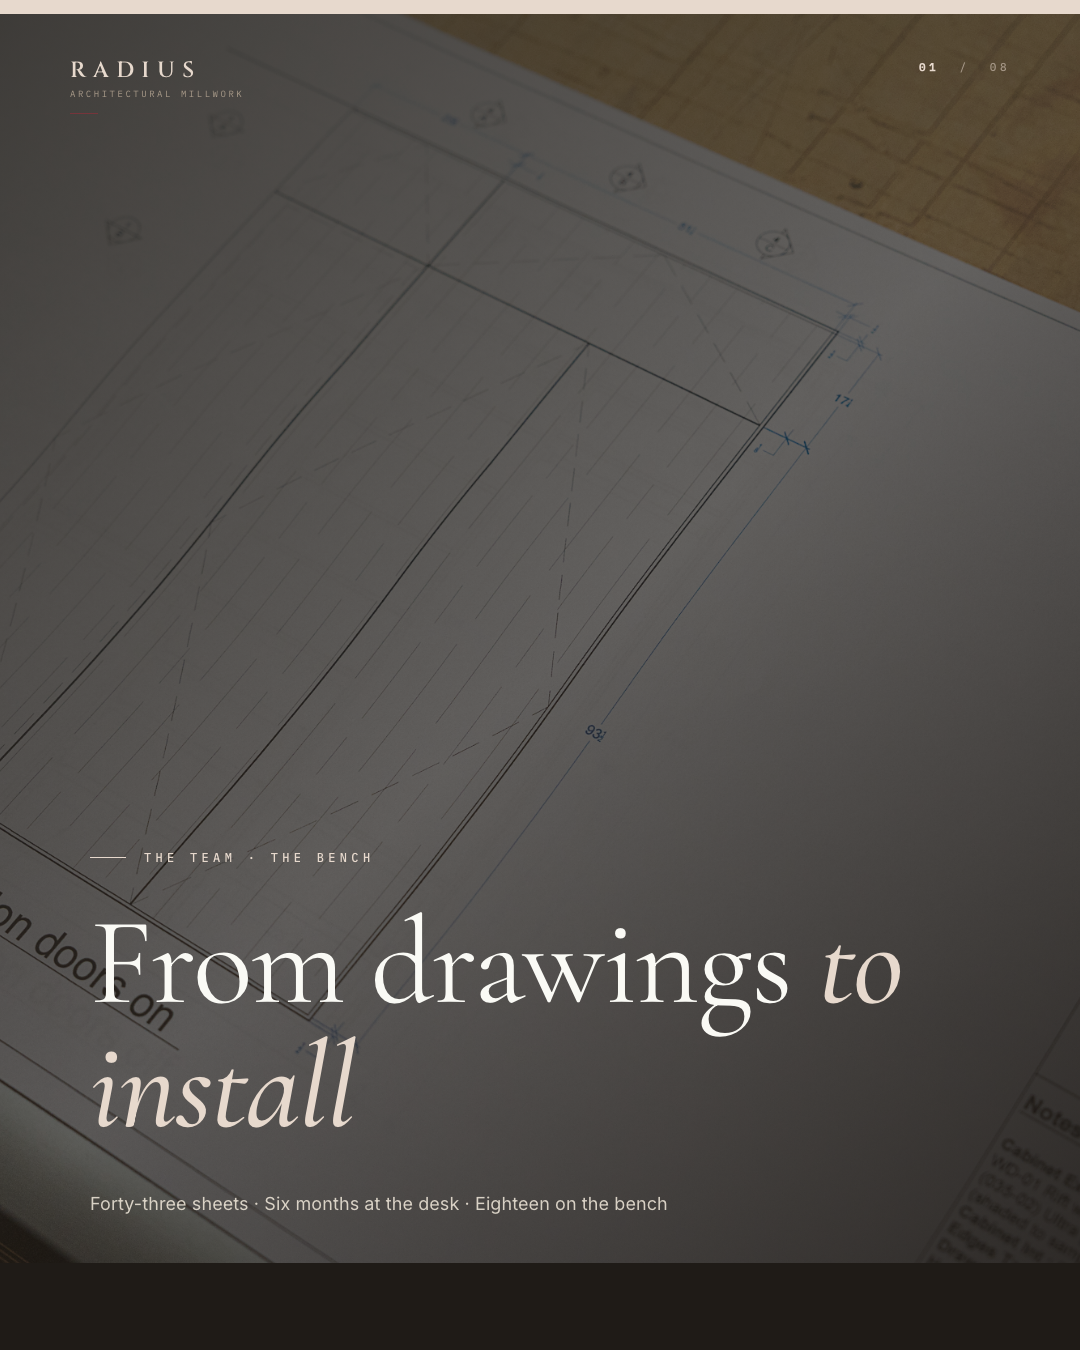
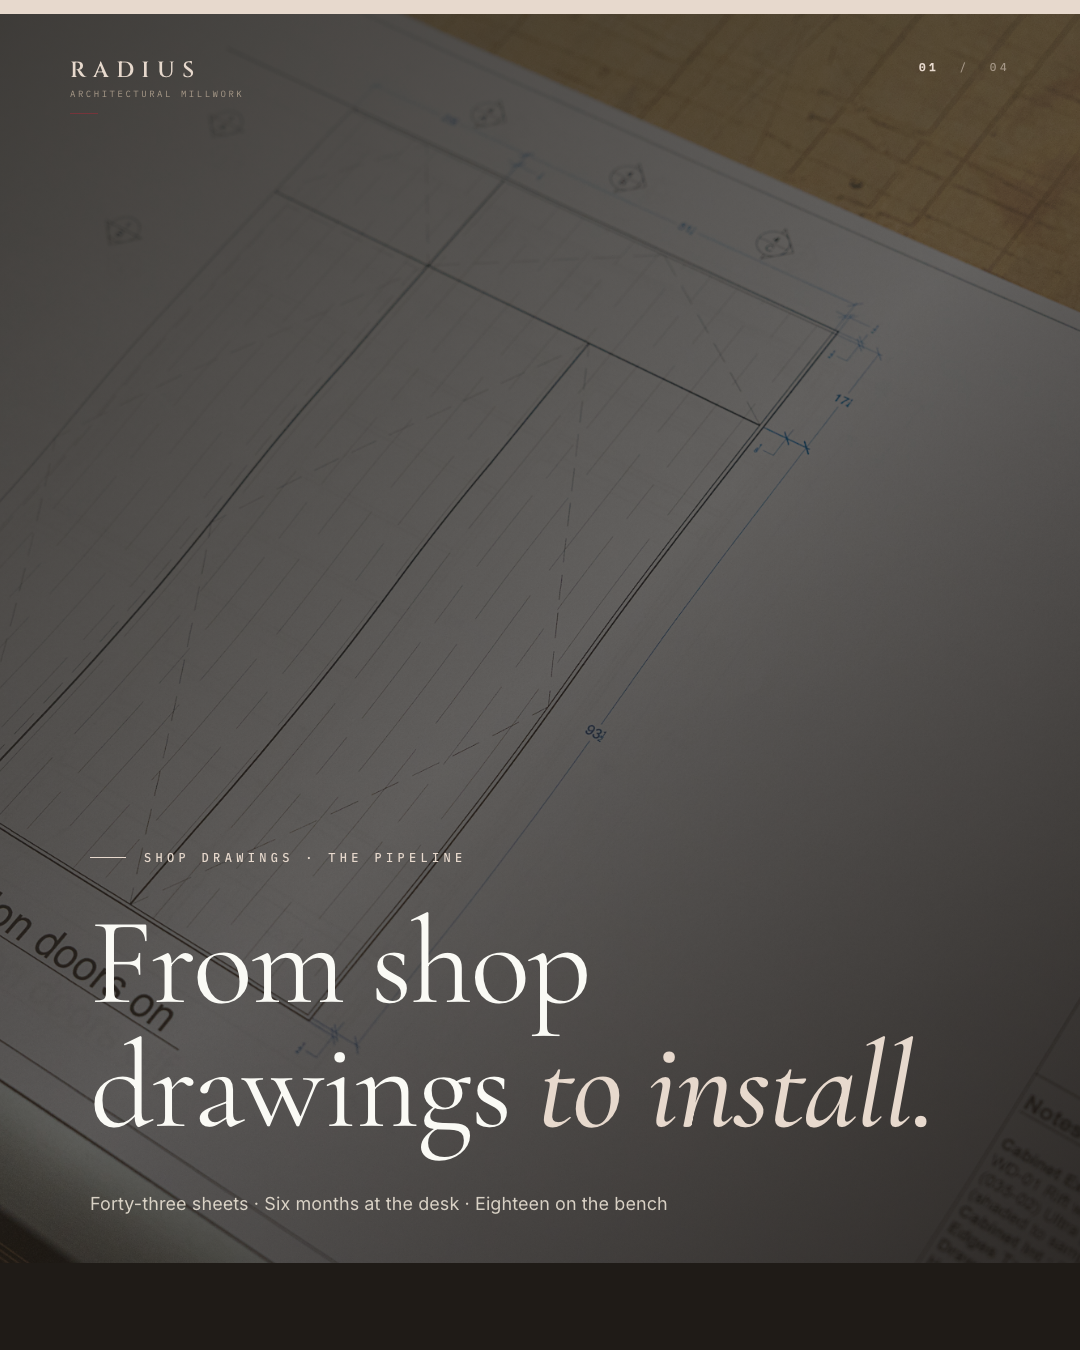
More cuts: drawings-to-install Sheldon-free + delete AWMAC + Sheldon spotlight + Variant 02
DRAWINGS-TO-INSTALL POST (now Post 07 / 08):
- Removed: primary-ensuite.jpg drawing, panel-callout-bed2-cab5-wide.jpg,
  p9_s7_quote (Sheldon quote), p9_s8_pipeline (six-steps)
- Carousel: 8 slides → 4 slides
- Caption rewritten without naming Sheldon — anchored on the workflow
  itself (forty-three sheets, drawing-to-saw-to-install, internal handoff)
- Cover slide eyebrow: 'The Team · The Bench' → 'Shop Drawings · The Pipeline'
- Pillar badge: The Team → The Craft
- Hashtags: removed #theteam, #thedrawingdesk

DELETED POSTS:
- Post 09 / 10 (Wk 3) 'Looking back at AWMAC Gold' LinkedIn long-form
- Post 10 / 10 (Wk 3) 'Sheldon · eighteen years' carousel

DELETED VARIANT:
- Variant 02 'What twenty hours per drawer buys you' (cost transparency)
- Other variants renumbered: 03-08 → 02-07. Section sub: 'Eight posts'
  → 'Seven posts, seven angles'

May calendar now: 8 total posts (6 Wk1+2 + 2 Wk3).
Week 3: Mon · Wed only (Fri/Sat removed).
Top metadata: 10 → 8 posts.

Changed region(s): [[0.0917, 0.6533, 0.8556, 0.8711]]

diff --git a/radiuswood/posts/index.html b/radiuswood/posts/index.html
@@ -130,7 +130,7 @@
   <div class="meta-row">
     <div class="meta-item"><strong>Source Shoot</strong>May 5, 2026</div>
     <div class="meta-item"><strong>Edited Frames</strong>55 delivered</div>
-    <div class="meta-item"><strong>Posts</strong>10 (full month · founder-reset + service-diff removed)</div>
+    <div class="meta-item"><strong>Posts</strong>8 (full month · 4 LinkedIn/Sheldon posts removed)</div>
     <div class="meta-item"><strong>Designed Slides</strong>54 (4:5 carousels) + 10 stories (9:16)</div>
     <div class="meta-item"><strong>Plan Drawings</strong>5 in feed (Posts 1, 2, 9, 12)</div>
     <div class="meta-item"><strong>Stories</strong>10 vertical (1080×1920)</div>
@@ -155,7 +155,7 @@
   <!-- POST 1 -->
   <article class="post">
     <div class="post-head">
-      <span class="post-num">Post 01 / 06</span>
+      <span class="post-num">Post 01 / 08</span>
       <span class="post-when">Mon · <em>May 11</em></span>
     </div>
     <div class="post-meta">
@@ -197,7 +197,7 @@ Photography @mattanthonyphoto</div>
   <!-- POST 2 -->
   <article class="post">
     <div class="post-head">
-      <span class="post-num">Post 02 / 06</span>
+      <span class="post-num">Post 02 / 08</span>
       <span class="post-when">Wed · <em>May 13</em></span>
     </div>
     <div class="post-meta">
@@ -244,7 +244,7 @@ Photography @mattanthonyphoto</div>
   <!-- POST 3 (was POST 4 before deletion of founder reset) -->
   <article class="post">
     <div class="post-head">
-      <span class="post-num">Post 03 / 06</span>
+      <span class="post-num">Post 03 / 08</span>
       <span class="post-when">Sat · <em>May 17</em></span>
     </div>
     <div class="post-meta">
@@ -299,7 +299,7 @@ Rick Wilson, Owner + Master Joiner. Photography @mattanthonyphoto</div>
   <!-- POST 5 -->
   <article class="post">
     <div class="post-head">
-      <span class="post-num">Post 04 / 06</span>
+      <span class="post-num">Post 04 / 08</span>
       <span class="post-when">Mon · <em>May 18</em></span>
     </div>
     <div class="post-meta">
@@ -344,7 +344,7 @@ Photography @mattanthonyphoto</div>
   <!-- POST 6 -->
   <article class="post">
     <div class="post-head">
-      <span class="post-num">Post 05 / 06</span>
+      <span class="post-num">Post 05 / 08</span>
       <span class="post-when">Wed · <em>May 20</em></span>
     </div>
     <div class="post-meta">
@@ -391,7 +391,7 @@ Photography @mattanthonyphoto</div>
   <!-- POST 8 -->
   <article class="post">
     <div class="post-head">
-      <span class="post-num">Post 06 / 06</span>
+      <span class="post-num">Post 06 / 08</span>
       <span class="post-when">Sat · <em>May 24</em></span>
     </div>
     <div class="post-meta">
@@ -435,7 +435,7 @@ Photography @mattanthonyphoto</div>
 <!-- WEEK 3 -->
 <section class="week">
   <div class="week-label">Week <em>Three</em></div>
-  <div class="week-sub">May 25–31 · Mon Wed Fri Sat</div>
+  <div class="week-sub">May 25–31 · Mon · Wed (AWMAC + Sheldon-spotlight removed)</div>
 </section>
 
 <section class="posts">
@@ -443,49 +443,45 @@ Photography @mattanthonyphoto</div>
   <!-- POST 9 -->
   <article class="post">
     <div class="post-head">
-      <span class="post-num">Post 07 / 10 (Wk 3)</span>
+      <span class="post-num">Post 07 / 08 (Wk 3)</span>
       <span class="post-when">Mon · <em>May 25</em></span>
     </div>
     <div class="post-meta">
       <span class="badge platform">Instagram</span>
-      <span class="badge type">Carousel · 8 slides</span>
-      <span class="badge pillar">The Team</span>
+      <span class="badge type">Carousel · 4 slides</span>
+      <span class="badge pillar">The Craft</span>
     </div>
-    <h3>From drawings <em>to install.</em></h3>
+    <h3>From shop drawings <em>to install.</em></h3>
 
     <div class="carousel-wrap">
-      <div class="carousel-label">Carousel sequence — drawings → marker → execution → process</div>
+      <div class="carousel-label">Carousel sequence — the drawing-to-install pipeline (no team focus, no Sheldon)</div>
       <div class="carousel">
         <div class="slide-wrap"><span class="slide-num">01</span><span class="slide-tag">Cover</span><img class="designed" src="slides/p9_s1_cover.png" alt="cover"></div>
-        <div class="slide-wrap horizontal"><span class="slide-num">02</span><span class="slide-tag">Drawing</span><img src="photos/drawings/ogr-shop-drawing-primary-ensuite.jpg" alt="OGR plan"></div>
-        <div class="slide-wrap horizontal"><span class="slide-num">03</span><span class="slide-tag">Drawing</span><img src="photos/drawings/ogr-shop-drawing-elevation-doors-on.jpg" alt="OGR elevation"></div>
-        <div class="slide-wrap"><span class="slide-num">04</span><span class="slide-tag">Marker</span><img src="photos/drawings/panel-marking-rift-oak-b1.jpg" alt="B1 panel"></div>
-        <div class="slide-wrap horizontal"><span class="slide-num">05</span><span class="slide-tag">Marker</span><img src="photos/drawings/panel-callout-bed2-cab5-wide.jpg" alt="panel back markings"></div>
-        <div class="slide-wrap horizontal"><span class="slide-num">06</span><span class="slide-tag">Production</span><img src="photos/process/ogr-wardrobe-carcass-pre-fit.jpg" alt="cabinet runs"></div>
-        <div class="slide-wrap"><span class="slide-num">07</span><span class="slide-tag">Quote</span><img class="designed" src="slides/p9_s7_quote.png" alt="Sheldon quote"></div>
-        <div class="slide-wrap"><span class="slide-num">08</span><span class="slide-tag">Process</span><img class="designed" src="slides/p9_s8_pipeline.png" alt="six steps"></div>
+        <div class="slide-wrap horizontal"><span class="slide-num">02</span><span class="slide-tag">Drawing</span><img src="photos/drawings/ogr-shop-drawing-elevation-doors-on.jpg" alt="OGR elevation"></div>
+        <div class="slide-wrap"><span class="slide-num">03</span><span class="slide-tag">Marker</span><img src="photos/drawings/panel-marking-rift-oak-b1.jpg" alt="B1 panel"></div>
+        <div class="slide-wrap horizontal"><span class="slide-num">04</span><span class="slide-tag">Production</span><img src="photos/process/ogr-wardrobe-carcass-pre-fit.jpg" alt="cabinet runs"></div>
       </div>
     </div>
 
     <div class="post-grid">
       <div>
-        <div class="caption-label">Caption (Rick first-person)</div>
-        <div class="caption">Eighteen years at the drawing desk.
+        <div class="caption-label">Caption (Rick first-person · no team focus)</div>
+        <div class="caption">From shop drawings to install.
 
-Sheldon runs our shop drawings. Every panel, every reveal, every section detail goes through him before it gets cut. Old Gravel Road, Whistler. Forty-three sheets. Six months at the desk. Eighteen months on the bench.
+Forty-three sheets for one Whistler residence. Six months at the drawing desk. Eighteen months on the bench. Every panel, every reveal, every section detail gets drawn before it gets cut.
 
-The drawings travel from his desk to the saw. The marker on the panel face is a callback to the elevation he drew six months ago.
+The marker on the panel face is a callback to the elevation drawn six months ago. The set that came in from the architect goes out as installed millwork — every callout traced, every dimension held.
 
-We've been at the desk next to each other for eighteen years. Same wavelength. When I'm stuck I ask him. When he's stuck he asks me.
+Drawings travel from desk to saw to install crew. Same shop. The handoff is internal.
 
-That's the unfair advantage of building a shop slowly.
+That's what "in-house" actually means.
 
-Rick Wilson, Owner + Master Joiner. Photography @mattanthonyphoto.</div>
-        <div class="voice-check"><strong>Voice gate:</strong> Names Sheldon (3x) and Old Gravel Road, Whistler. Both pending Rick's go-ahead per unblock email. If Sheldon prefers anonymity, replace with "Our lead designer" and reduce mentions to 1.</div>
+Rick Wilson, Owner + Master Joiner. Photography @mattanthonyphoto</div>
+        <div class="voice-check"><strong>Direction kept · Sheldon removed.</strong> Caption now anchors on the workflow itself: forty-three sheets, drawing-to-saw-to-install, handoff internal. No team naming. Architect/GC-targeted.</div>
       </div>
       <div>
         <div class="caption-label">Hashtags</div>
-        <div class="hashtags">#shopdrawings #archmillwork #thebench #thedrawingdesk #vancouverarchitect #residentialarchitecture #vancouvermillwork #fromdrawingstoinstall #thecraft #theteam</div>
+        <div class="hashtags">#shopdrawings #archmillwork #thebench #vancouverarchitect #residentialarchitecture #vancouvermillwork #fromdrawingstoinstall #inhouseworkflow #thecraft</div>
       </div>
     </div>
   </article>
@@ -495,7 +491,7 @@ Rick Wilson, Owner + Master Joiner. Photography @mattanthonyphoto.</div>
   <!-- POST 10 -->
   <article class="post">
     <div class="post-head">
-      <span class="post-num">Post 08 / 10 (Wk 3)</span>
+      <span class="post-num">Post 08 / 08 (Wk 3)</span>
       <span class="post-when">Wed · <em>May 27</em></span>
     </div>
     <div class="post-meta">
@@ -539,95 +535,7 @@ Photography @mattanthonyphoto</div>
     </div>
   </article>
 
-  <!-- POST 11 -->
-  <article class="post">
-    <div class="post-head">
-      <span class="post-num">Post 09 / 10 (Wk 3)</span>
-      <span class="post-when">Fri · <em>May 29</em></span>
-    </div>
-    <div class="post-meta">
-      <span class="badge platform">LinkedIn</span>
-      <span class="badge type">Long-form · 2 photos</span>
-      <span class="badge pillar">The Finished</span>
-    </div>
-    <h3>Looking back at <em>AWMAC Gold.</em></h3>
-
-    <div class="carousel-wrap">
-      <div class="carousel-label">Photos</div>
-      <div class="carousel">
-        <div class="slide-wrap"><span class="slide-num">01</span><span class="slide-tag">Award</span><img class="designed" src="slides/lib_a_awmacgold.png" alt="AWMAC Gold"></div>
-        <div class="slide-wrap"><span class="slide-num">02</span><span class="slide-tag">Process</span><img class="designed" src="slides/lib_proc_springback.png" alt="spring-back"></div>
-      </div>
-    </div>
-
-    <div class="post-grid">
-      <div>
-        <div class="caption-label">Caption (Rick first-person)</div>
-        <div class="caption">Fifteen years ago, we won AWMAC BC Gold for two categories on the same project.
-
-Best in Quality. Best in Service. The Rosebery Estate, Vancouver. A residence by Lamoureux Architects with $1.5 million in custom millwork. Eighteen months on the bench. Fifteen craftspeople, full-time.
-
-The technical challenge was laminated curves. Bent-lamination of structural millwork radii — a process where layers of veneer get glued over a curved form, then released. The curve doesn't always hold the shape. We tested. We measured. We logged the spring-back coefficient per species and humidity. Eventually we had it down to a science.
-
-We're documenting our 2026 work for the AWMAC 2027 submission. Old Gravel Road, Whistler. Forty-three sheets at the drawing desk so far.
-
-Looking forward to walking that bench in front of the judges again.
-
-Rick Wilson, Owner + Master Joiner. Photography @mattanthonyphoto</div>
-      </div>
-      <div>
-        <div class="caption-label">Notes</div>
-        <div class="hashtags">LinkedIn long-form. Announces AWMAC 2027 target. References Lamoureux and Old Gravel Road by name — both gated for Rick consent.</div>
-      </div>
-    </div>
-  </article>
-
-  <!-- POST 12 -->
-  <article class="post">
-    <div class="post-head">
-      <span class="post-num">Post 10 / 10 (Wk 3)</span>
-      <span class="post-when">Sat · <em>May 31</em></span>
-    </div>
-    <div class="post-meta">
-      <span class="badge platform">Instagram</span>
-      <span class="badge type">Carousel · 5 slides</span>
-      <span class="badge pillar">The Team</span>
-    </div>
-    <h3>Sheldon · <em>eighteen years.</em></h3>
-
-    <div class="carousel-wrap">
-      <div class="carousel-label">Carousel sequence — Sheldon spotlight</div>
-      <div class="carousel">
-        <div class="slide-wrap"><span class="slide-num">01</span><span class="slide-tag">Cover</span><img class="designed" src="slides/p12_s1_cover.png" alt="cover"></div>
-        <div class="slide-wrap horizontal"><span class="slide-num">02</span><span class="slide-tag">Drawing</span><img src="photos/drawings/ogr-shop-drawing-primary-ensuite.jpg" alt="OGR plan"></div>
-        <div class="slide-wrap horizontal"><span class="slide-num">03</span><span class="slide-tag">Drawing</span><img src="photos/drawings/ogr-shop-drawing-elevation-doors-on.jpg" alt="OGR elevation"></div>
-        <div class="slide-wrap"><span class="slide-num">04</span><span class="slide-tag">Portrait</span><img class="designed" src="slides/lib_t_sheldon.png" alt="Sheldon"></div>
-        <div class="slide-wrap"><span class="slide-num">05</span><span class="slide-tag">Quote</span><img class="designed" src="slides/p9_s7_quote.png" alt="quote"></div>
-      </div>
-    </div>
-
-    <div class="post-grid">
-      <div>
-        <div class="caption-label">Caption</div>
-        <div class="caption">Sheldon walked in twenty-three years old. Portfolio of clean SketchUp renders. A hand for elevations. Stubborn streak about millimetre accuracy.
-
-I hired him on the spot.
-
-Eighteen years later he runs the drawing desk. Every panel, every reveal, every section detail goes through him before it hits the saw. Same wavelength, eighteen years in. When I'm stuck, I ask him. When he's stuck, he asks me.
-
-The Old Gravel Road set lands at his desk in February. Forty-three sheets. By March the saws are cutting his callouts. Architects look at our drawings — pencils land on his name.
-
-That's what building a shop slowly buys you. People who stay.
-
-Rick Wilson, Owner + Master Joiner. Photography @mattanthonyphoto</div>
-        <div class="voice-check"><strong>Voice gate:</strong> Names Sheldon by first name 3x + tenure-since-2008 implied via "eighteen years". Same gate as P3 + P9. Differentiates from P9 by leading with hire story instead of process arc.</div>
-      </div>
-      <div>
-        <div class="caption-label">Hashtags</div>
-        <div class="hashtags">#theteam #shopdrawings #thebench #archmillwork #vancouverarchitect #residentialarchitecture #vancouvermillwork #fromdrawingstoinstall #thecraft</div>
-      </div>
-    </div>
-  </article>
+  <!-- POSTS 09 (AWMAC Gold retrospective) and 10 (Sheldon spotlight) REMOVED by Rick -->
 
 </section>
 
@@ -637,7 +545,7 @@ Rick Wilson, Owner + Master Joiner. Photography @mattanthonyphoto</div>
 
 <section class="week" id="variants">
   <div class="week-label">Variants <em>· Other angles</em></div>
-  <div class="week-sub">Rick's voice applied to marketing angles we haven't tried in the May calendar. Eight posts, eight angles — anti-marketing, cost transparency, hot takes, myth-busting, apprentice voice, heritage stance, practical pre-spec, locality.</div>
+  <div class="week-sub">Rick's voice applied to marketing angles we haven't tried in the May calendar. Seven posts, seven angles — hot takes, myth-busting, apprentice voice, heritage stance, practical pre-spec, locality, anti-marketing.</div>
 </section>
 
 <section class="posts">
@@ -685,53 +593,12 @@ Rick Wilson, Owner + Master Joiner. Photography @mattanthonyphoto</div>
     </div>
   </article>
 
-  <!-- VARIANT 2 — Cost of a drawer (cost transparency) -->
+  <!-- VARIANT 02 (cost transparency) REMOVED by Rick -->
+
+  <!-- VARIANT 2 — Everyone wants to skip the bench (hot take) -->
   <article class="post">
     <div class="post-head">
-      <span class="post-num">Variant 02 · <em>cost transparency</em></span>
-      <span class="post-when">Standalone</span>
-    </div>
-    <div class="post-meta">
-      <span class="badge platform">LinkedIn</span>
-      <span class="badge type">Long-form · 3 photos + 1 number</span>
-      <span class="badge pillar">The Craft</span>
-    </div>
-    <h3>What twenty hours <em>per drawer</em> buys you.</h3>
-
-    <div class="carousel-wrap">
-      <div class="carousel-label">Demystify pricing — for architects + homeowners (via designers)</div>
-      <div class="carousel">
-        <div class="slide-wrap"><span class="slide-num">01</span><img src="photos/joinery/dovetail-pin-tail-maple-close.jpg" alt="dovetail close"></div>
-        <div class="slide-wrap"><span class="slide-num">02</span><span class="slide-tag">Number</span><img class="designed" src="slides/lib_n_20hrs.png" alt="20 hours"></div>
-        <div class="slide-wrap"><span class="slide-num">03</span><img src="photos/archive/luxury-22.jpg" alt="walnut display"></div>
-      </div>
-    </div>
-
-    <div class="post-grid">
-      <div>
-        <div class="caption-label">Caption (Rick first-person)</div>
-        <div class="caption">What twenty hours per drawer buys you.
-
-A custom dovetail drawer in solid Eastern maple is roughly twenty hours of bench time. Material is the cheap part — about thirty dollars in wood. The rest is setup, jig-cutting, the dovetail itself, fit, sanding, finish.
-
-A drawer-front from a kitchen-cabinet wholesaler is two dollars in material and forty seconds at the assembly line. Both hold pots. Only one holds for a hundred years.
-
-You're not paying for wood. You're paying for hours that won't come back.
-
-Rick Wilson, Owner + Master Joiner. Photography @mattanthonyphoto</div>
-        <div class="voice-check"><strong>Angle:</strong> Cost transparency. Educates the chain (architect → homeowner). Useful for the "why does it cost that much" conversation.</div>
-      </div>
-      <div>
-        <div class="caption-label">Notes</div>
-        <div class="hashtags">LinkedIn long-form. No hashtags. Targets architects who need to defend a custom-millwork line item to their client.</div>
-      </div>
-    </div>
-  </article>
-
-  <!-- VARIANT 3 — Everyone wants to skip the bench (hot take) -->
-  <article class="post">
-    <div class="post-head">
-      <span class="post-num">Variant 03 · <em>hot take</em></span>
+      <span class="post-num">Variant 02 · <em>hot take</em></span>
       <span class="post-when">Standalone</span>
     </div>
     <div class="post-meta">
@@ -770,10 +637,10 @@ Rick Wilson, Owner + Master Joiner. Photography @mattanthonyphoto</div>
     </div>
   </article>
 
-  <!-- VARIANT 4 — Two days CNC, two hours band saw (myth-busting) -->
+  <!-- VARIANT 3 — Two days CNC, two hours band saw (myth-busting) -->
   <article class="post">
     <div class="post-head">
-      <span class="post-num">Variant 04 · <em>myth-busting</em></span>
+      <span class="post-num">Variant 03 · <em>myth-busting</em></span>
       <span class="post-when">Standalone</span>
     </div>
     <div class="post-meta">
@@ -814,10 +681,10 @@ Rick Wilson, Owner + Master Joiner. Photography @mattanthonyphoto</div>
     </div>
   </article>
 
-  <!-- VARIANT 5 — Sydney on the bench (apprentice voice) -->
+  <!-- VARIANT 4 — Sydney on the bench (apprentice voice) -->
   <article class="post">
     <div class="post-head">
-      <span class="post-num">Variant 05 · <em>apprentice voice</em></span>
+      <span class="post-num">Variant 04 · <em>apprentice voice</em></span>
       <span class="post-when">Standalone</span>
     </div>
     <div class="post-meta">
@@ -859,10 +726,10 @@ Rick Wilson, Owner + Master Joiner. Photography @mattanthonyphoto</div>
     </div>
   </article>
 
-  <!-- VARIANT 6 — Solid stock or veneer (heritage stance) -->
+  <!-- VARIANT 5 — Solid stock or veneer (heritage stance) -->
   <article class="post">
     <div class="post-head">
-      <span class="post-num">Variant 06 · <em>material philosophy</em></span>
+      <span class="post-num">Variant 05 · <em>material philosophy</em></span>
       <span class="post-when">Standalone</span>
     </div>
     <div class="post-meta">
@@ -904,10 +771,10 @@ Photography @mattanthonyphoto</div>
     </div>
   </article>
 
-  <!-- VARIANT 7 — What your set needs (practical pre-spec) -->
+  <!-- VARIANT 6 — What your set needs (practical pre-spec) -->
   <article class="post">
     <div class="post-head">
-      <span class="post-num">Variant 07 · <em>practical / pre-spec</em></span>
+      <span class="post-num">Variant 06 · <em>practical / pre-spec</em></span>
       <span class="post-when">Standalone</span>
     </div>
     <div class="post-meta">
@@ -951,10 +818,10 @@ Rick Wilson, Owner + Master Joiner. Photography @mattanthonyphoto</div>
     </div>
   </article>
 
-  <!-- VARIANT 8 — Burnaby (locality) -->
+  <!-- VARIANT 7 — Burnaby (locality) -->
   <article class="post">
     <div class="post-head">
-      <span class="post-num">Variant 08 · <em>locality</em></span>
+      <span class="post-num">Variant 07 · <em>locality</em></span>
       <span class="post-when">Standalone</span>
     </div>
     <div class="post-meta">